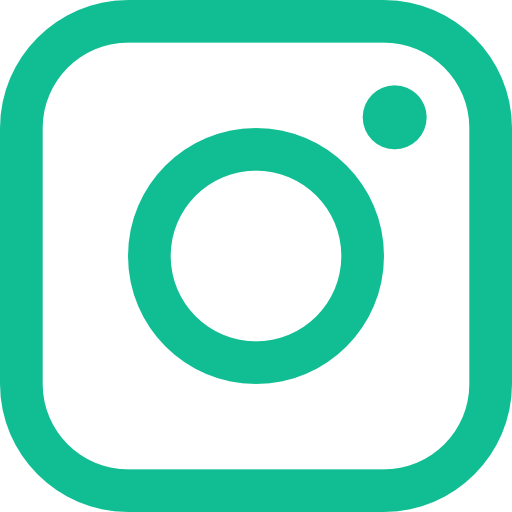
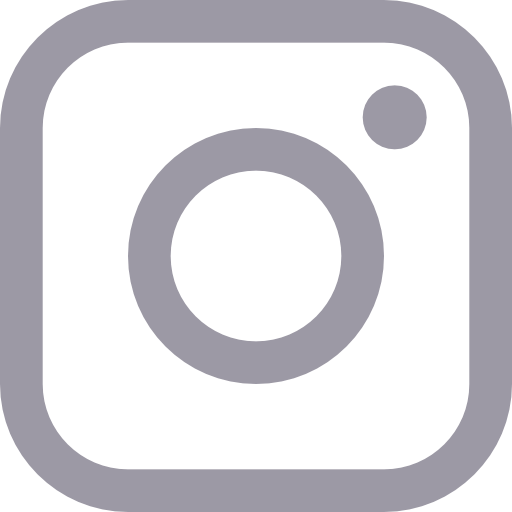
refactor(#11): website content has been changed, along with the photos and theme colors.

diff --git a/src/index.html b/src/index.html
@@ -19,49 +19,52 @@
             <a class="text-2xl hover:text-main transition duration-200" href="#start">Start</a>
             <a class="text-2xl hover:text-main transition duration-200" href="#projects">Projects</a>
             <a href="#contact"
-                class="text-2xl font-semibold text-white bg-main px-4 py-2 rounded-2xl hover:bg-teal-600 transition duration-200">Contact
+                class="text-2xl font-semibold text-white bg-main px-4 py-2 rounded-2xl hover:bg-purple-800 transition duration-200">Contact
                 Us</a>
         </div>
         <div class="size-8 lg:hidden"><img src="./img/icon_hamburguer.png" alt="Menu"></div>
     </header>
 
     <!-- Hero Section -->
-    <section
+    <section id="start"
         class="flex flex-col lg:flex-row-reverse min-h-screen items-center text-black bg-white px-6 lg:px-30 py-16">
-        <div class="lg:w-1/2 max-w-[400px] max-h-[400px] lg:max-w-[700px] lg:max-h-[700px]"><img src="./img/sally.png"
-                alt="Sally Photo"></div>
+        <div class="lg:w-1/2 max-w-[300px] max-h-[300px] lg:max-w-[500px] lg:max-h-[500px]"><img
+                src="./img/hero-section-img.jpeg" alt="Me and Samurott"
+                class="w-full aspect-square rounded-full object-cover border-8 border-purple-700 p-1" />
+        </div>
         <div class="lg:w-1/2 lg:max-w[560px] flex flex-col gap-12">
             <div class="text-center lg:text-start flex flex-col gap-8 items-center lg:items-start">
                 <div class="flex flex-col gap-8 max-w-3/4">
-                    <h2 class="text-5xl">Sally Johnson <span class="text-secondary">Designer </span></h2>
+                    <h2 class="text-5xl">Get to know
+                        <span class="text-secondary">Artur</span>
+                    </h2>
                     <div class="flex flex-col gap-4">
-                        <h3 class="text-2xl">alguma coisa <span class="text-secondary">solutions</span></h3>
-                        <p class="text-base">Lorem ipsum dolor sit amet consectetur, adipisicing elit. Eius modi autem
-                            nihil. Error quam
-                            hic sunt odit tempora aperiam non dicta consequuntur illo nihil, eum, incidunt, quia qui
-                            ducimus aspernatur.
-                            Quaerat vel consequuntur corporis, omnis tenetur, libero facere iste excepturi repudiandae,
-                            quibusdam nisi repellendus dolore blanditiis corrupti ipsam aperiam quo. Non cumque, sint
-                            quia magni voluptas sunt voluptatibus a? Laudantium!
+                        <h3 class="text-2xl">Sales trainee at <span class="text-secondary">byron.solutions</span></h3>
+                        <p class="text-base">Born in the state of São Paulo, Brazil, my name is Artur. I am a
+                            computer engineering student at the Federal University of
+                            Itajubá - UNIFEI.
                         </p>
                     </div>
                 </div>
                 <button
-                    class="text-2xl font-semibold text-white bg-main px-4 py-2 rounded-2xl hover:bg-teal-600 transition duration-200">LEARN
+                    class="text-2xl font-semibold text-white bg-main px-4 py-2 rounded-2xl hover:bg-purple-800 transition duration-200">LEARN
                     MORE</button>
             </div>
             <div class="flex flex-row justify-between lg:justify-start gap-8">
                 <p class="text-2xl items-center">Contact Us!</p>
                 <div class="flex flex-row gap-6">
-                    <div class="size-12"><a href="#"><img src="./img/icon_instagram.png" alt="Instagram"></a></div>
-                    <div class="size-12"><a href="#"><img src="./img/icon_linkedin.png" alt="LinkedIn"></a></div>
-                    <div class="size-12"><a href="#"><img src="./img/icon_whatsapp.png" alt="WhatsApp"></a></div>
+                    <div class="size-12"><a href="https://www.instagram.com/artursimaoo_/" target="_blank"><img
+                                src="./img/icon_instagram.png" alt="Instagram"></a></div>
+                    <div class="size-12"><a href="https://www.linkedin.com/in/artur-sim%C3%A3o/" target="_blank"><img
+                                src="./img/icon_linkedin.png" alt="LinkedIn"></a></div>
+                    <div class="size-12"><a href="https://wa.me/5512983211031" target="_blank"><img
+                                src="./img/icon_whatsapp.png" alt="WhatsApp"></a></div>
                 </div>
             </div>
         </div>
     </section>
     <!-- Projects Section -->
-    <section class="bg-secondary px-6 py-16 text-black flex flex-col gap-8 lg:gap-16 items-center">
+    <section id="projects" class="bg-secondary px-6 py-16 text-black flex flex-col gap-8 lg:gap-16 items-center">
         <h2 class="text-white font-extrabold text-2xl">LAST PROJECTS</h2>
         <div class="grid grid-flow-row grid-cols-1 gap-12 md:grid-cols-2 lg:grid-cols-3">
             <div class="flex flex-col bg-white max-w-[380px] rounded-lg p-3 gap-4 drop-shadow-lg">
@@ -72,55 +75,54 @@
                 </div>
             </div>
             <div class="flex flex-col bg-white max-w-[380px] rounded-lg p-3 gap-4 drop-shadow-lg">
-                <div class="h-3/4 rounded-lg overflow-hidden"><img src="./img/Card1.webp" alt=""></div>
+                <div class="h-3/4 rounded-lg overflow-hidden"><img src="./img/Card2.webp" alt=""></div>
                 <div class="h-1/4">
-                    <h3 class="text-lg">Project 1</h3>
+                    <h3 class="text-lg">Project 2</h3>
+                    <p class="text-base text-gray">Description of the project.</p>
+                </div>
+            </div>
+            <div class="flex flex-col bg-white max-w-[380px] rounded-lg p-3 gap-4 drop-shadow-lg">
+                <div class="h-3/4 rounded-lg overflow-hidden"><img src="./img/Card3.jpg" alt=""></div>
+                <div class="h-1/4">
+                    <h3 class="text-lg">Project 3</h3>
                     <p class="text-base text-gray">Description of the project.</p>
                 </div>
             </div>
             <div class="flex flex-col bg-white max-w-[380px] rounded-lg p-3 gap-4 drop-shadow-lg">
                 <div class="h-3/4 rounded-lg overflow-hidden"><img src="./img/Card1.webp" alt=""></div>
                 <div class="h-1/4">
-                    <h3 class="text-lg">Project 1</h3>
+                    <h3 class="text-lg">Project 4</h3>
                     <p class="text-base text-gray">Description of the project.</p>
                 </div>
             </div>
             <div class="flex flex-col bg-white max-w-[380px] rounded-lg p-3 gap-4 drop-shadow-lg">
-                <div class="h-3/4 rounded-lg overflow-hidden"><img src="./img/Card1.webp" alt=""></div>
+                <div class="h-3/4 rounded-lg overflow-hidden"><img src="./img/Card2.webp" alt=""></div>
                 <div class="h-1/4">
-                    <h3 class="text-lg">Project 1</h3>
+                    <h3 class="text-lg">Project 5</h3>
                     <p class="text-base text-gray">Description of the project.</p>
                 </div>
             </div>
             <div class="flex flex-col bg-white max-w-[380px] rounded-lg p-3 gap-4 drop-shadow-lg">
-                <div class="h-3/4 rounded-lg overflow-hidden"><img src="./img/Card1.webp" alt=""></div>
+                <div class="h-3/4 rounded-lg overflow-hidden"><img src="./img/Card3.jpg" alt=""></div>
                 <div class="h-1/4">
-                    <h3 class="text-lg">Project 1</h3>
-                    <p class="text-base text-gray">Description of the project.</p>
-                </div>
-            </div>
-            <div class="flex flex-col bg-white max-w-[380px] rounded-lg p-3 gap-4 drop-shadow-lg">
-                <div class="h-3/4 rounded-lg overflow-hidden"><img src="./img/Card1.webp" alt=""></div>
-                <div class="h-1/4">
-                    <h3 class="text-lg">Project 1</h3>
+                    <h3 class="text-lg">Project 6</h3>
                     <p class="text-base text-gray">Description of the project.</p>
                 </div>
             </div>
         </div>
     </section>
     <!-- Footer -->
-    <footer class="bg-black text-white flex flex-col p-8 gap-16 lg:items-center lg:gap-8">
+    <footer id="contact" class="bg-black text-white flex flex-col p-8 gap-16 lg:items-center lg:gap-8">
         <div class="flex flex-col lg:flex-row items-center gap-16 justify-between">
             <div class="flex flex-col items-center gap-3 lg:w-1/3">
                 <div class="size-16"><img src="./img/icon_logo.png" alt="Website Logo"></div>
-                <p class="text-xl">Devoleped by</p>
+                <p class="text-xl">Developed by Artur Simão • DVN 2026</p>
             </div>
             <div class="text-center gap-2 lg:w-1/3">
                 <h3 class="text-2xl">ABOUT ME</h3>
-                <p class="text-base">Lorem, ipsum dolor sit amet consectetur adipisicing elit. Natus, nisi iusto.
-                    Expedita quos unde odit
-                    laborum, earum tempora dolores molestiae, fuga voluptate deleniti reprehenderit, ab amet? Labore,
-                    tenetur hic. Accusamus?</p>
+                <p class="text-base">Born in the state of São Paulo, Brazil, my name is Artur. I am a
+                    computer engineering student at the Federal University of
+                    Itajubá - UNIFEI.</p>
             </div>
         </div>
         <div class="flex flex-col lg:flex-row lg:justify-center lg:gap-2 items-center">

diff --git a/src/output.css b/src/output.css
@@ -8,7 +8,12 @@
       "Segoe UI Emoji", "Segoe UI Symbol", "Noto Color Emoji";
     --font-mono: ui-monospace, SFMono-Regular, Menlo, Monaco, Consolas, "Liberation Mono",
       "Courier New", monospace;
+    --color-emerald-500: oklch(69.6% 0.17 162.48);
+    --color-teal-50: oklch(98.4% 0.014 180.72);
     --color-teal-600: oklch(60% 0.118 184.704);
+    --color-purple-500: oklch(62.7% 0.265 303.9);
+    --color-purple-700: oklch(49.6% 0.265 301.924);
+    --color-purple-800: oklch(43.8% 0.218 303.724);
     --color-black: #13181a;
     --color-white: #f8f8f8;
     --spacing: 0.25rem;
@@ -20,8 +25,6 @@
     --text-xl--line-height: calc(1.75 / 1.25);
     --text-2xl: 1.5rem;
     --text-2xl--line-height: calc(2 / 1.5);
-    --text-3xl: 1.875rem;
-    --text-3xl--line-height: calc(2.25 / 1.875);
     --text-4xl: 2.25rem;
     --text-4xl--line-height: calc(2.5 / 2.25);
     --text-5xl: 3rem;
@@ -35,8 +38,8 @@
     --default-transition-timing-function: cubic-bezier(0.4, 0, 0.2, 1);
     --default-font-family: var(--font-sans);
     --default-mono-font-family: var(--font-mono);
-    --color-main: #11be93;
-    --color-secondary: #499ce4;
+    --color-main: #8a1ee8;
+    --color-secondary: #7b1bcf;
     --color-gray: #546066;
     --font-main: "Albert Sans", sans-serif;
   }
@@ -202,6 +205,9 @@
   .table {
     display: table;
   }
+  .aspect-square {
+    aspect-ratio: 1 / 1;
+  }
   .size-8 {
     width: calc(var(--spacing) * 8);
     height: calc(var(--spacing) * 8);
@@ -226,8 +232,11 @@
   .h-3\/4 {
     height: calc(3 / 4 * 100%);
   }
-  .h-screen {
-    height: 100vh;
+  .h-64 {
+    height: calc(var(--spacing) * 64);
+  }
+  .max-h-\[300px\] {
+    max-height: 300px;
   }
   .max-h-\[400px\] {
     max-height: 400px;
@@ -235,17 +244,23 @@
   .min-h-screen {
     min-height: 100vh;
   }
+  .w-64 {
+    width: calc(var(--spacing) * 64);
+  }
+  .w-full {
+    width: 100%;
+  }
   .max-w-3 {
     max-width: calc(var(--spacing) * 3);
   }
   .max-w-3\/4 {
     max-width: calc(3 / 4 * 100%);
   }
-  .max-w-\[200px\] {
-    max-width: 200px;
-  }
   .max-w-\[260px\] {
     max-width: 260px;
+  }
+  .max-w-\[300px\] {
+    max-width: 300px;
   }
   .max-w-\[380px\] {
     max-width: 380px;
@@ -273,9 +288,6 @@
   }
   .items-center {
     align-items: center;
-  }
-  .items-start {
-    align-items: flex-start;
   }
   .justify-between {
     justify-content: space-between;
@@ -307,12 +319,28 @@
   .rounded-2xl {
     border-radius: var(--radius-2xl);
   }
+  .rounded-full {
+    border-radius: calc(infinity * 1px);
+  }
   .rounded-lg {
     border-radius: var(--radius-lg);
   }
   .border {
     border-style: var(--tw-border-style);
     border-width: 1px;
+  }
+  .border-8 {
+    border-style: var(--tw-border-style);
+    border-width: 8px;
+  }
+  .border-emerald-500 {
+    border-color: var(--color-emerald-500);
+  }
+  .border-purple-500 {
+    border-color: var(--color-purple-500);
+  }
+  .border-purple-700 {
+    border-color: var(--color-purple-700);
   }
   .bg-black {
     background-color: var(--color-black);
@@ -325,6 +353,12 @@
   }
   .bg-white {
     background-color: var(--color-white);
+  }
+  .object-cover {
+    object-fit: cover;
+  }
+  .p-1 {
+    padding: calc(var(--spacing) * 1);
   }
   .p-3 {
     padding: calc(var(--spacing) * 3);
@@ -424,6 +458,27 @@
     --tw-duration: 200ms;
     transition-duration: 200ms;
   }
+  .hover\:bg-purple-700 {
+    &:hover {
+      @media (hover: hover) {
+        background-color: var(--color-purple-700);
+      }
+    }
+  }
+  .hover\:bg-purple-800 {
+    &:hover {
+      @media (hover: hover) {
+        background-color: var(--color-purple-800);
+      }
+    }
+  }
+  .hover\:bg-teal-50 {
+    &:hover {
+      @media (hover: hover) {
+        background-color: var(--color-teal-50);
+      }
+    }
+  }
   .hover\:bg-teal-600 {
     &:hover {
       @media (hover: hover) {
@@ -453,6 +508,16 @@
       display: none;
     }
   }
+  .lg\:max-h-\[500px\] {
+    @media (width >= 64rem) {
+      max-height: 500px;
+    }
+  }
+  .lg\:max-h-\[600px\] {
+    @media (width >= 64rem) {
+      max-height: 600px;
+    }
+  }
   .lg\:max-h-\[700px\] {
     @media (width >= 64rem) {
       max-height: 700px;
@@ -468,9 +533,14 @@
       width: calc(1 / 3 * 100%);
     }
   }
-  .lg\:max-w-\[560px\] {
+  .lg\:max-w-\[500px\] {
     @media (width >= 64rem) {
-      max-width: 560px;
+      max-width: 500px;
+    }
+  }
+  .lg\:max-w-\[600px\] {
+    @media (width >= 64rem) {
+      max-width: 600px;
     }
   }
   .lg\:max-w-\[700px\] {
@@ -516,11 +586,6 @@
   .lg\:gap-2 {
     @media (width >= 64rem) {
       gap: calc(var(--spacing) * 2);
-    }
-  }
-  .lg\:gap-3 {
-    @media (width >= 64rem) {
-      gap: calc(var(--spacing) * 3);
     }
   }
   .lg\:gap-8 {

diff --git a/src/input.css b/src/input.css
@@ -3,8 +3,8 @@
 @import "tailwindcss";
 
 @theme {
-  --color-main: #11be93;
-  --color-secondary: #499ce4;
+  --color-main: #8a1ee8;
+  --color-secondary: #7b1bcf;
   --color-black: #13181a;
   --color-white: #f8f8f8;
   --color-gray: #546066;
